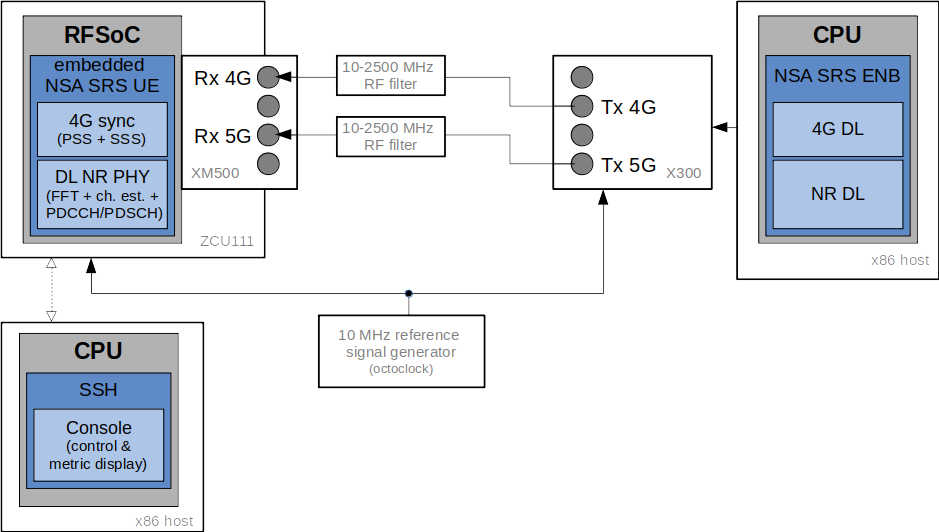
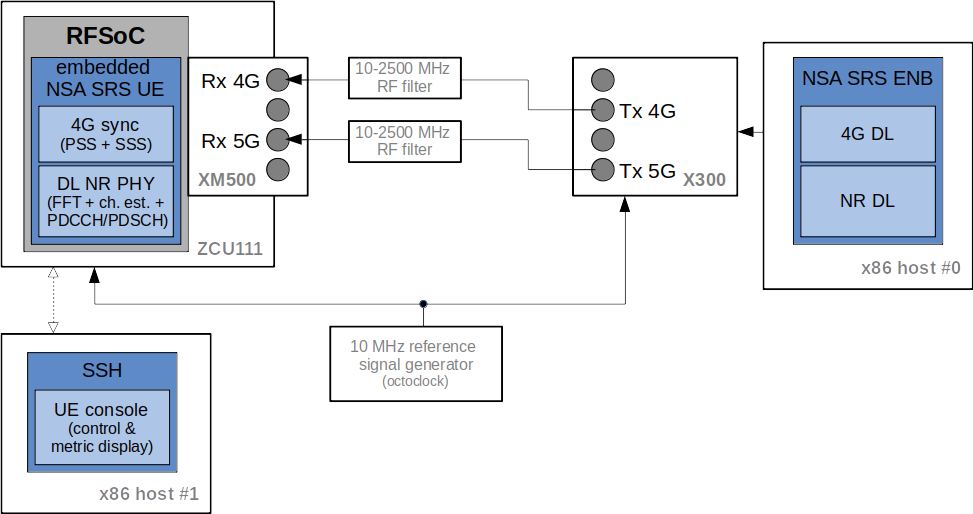
Introduces corrections taking into account Andre's comments.

diff --git a/srsran_user_manuals/source/app_notes/source/5g_nsa_emb_demo/source/index.rst b/srsran_user_manuals/source/app_notes/source/5g_nsa_emb_demo/source/index.rst
@@ -31,6 +31,7 @@ As shown in the figure above, the main components of the Embedded NSA DL demonst
   * **X300 USRP**: high-performance FPGA-based SDR front-end, including two complete RF chains and 10GE connectivity for high-speed I/Q sample exchange. It will constitute the NSA SRS eNB front-end.
   * **x86 host #0**: will host the NSA SRS eNB transmitter to provide both 4G and 5G DL signals.
   * **x86 host #1**: will provide SSH access to the ZCU111 board, in order to control the embedded NSA SRS UE. Will also display run-time DL metrics.
+  * **octoclock**: will provide a shared 10 MHz reference signal between the ZCU111 board and the x300 USRP device.
 
 Hardware Setup
 --------------
@@ -44,20 +45,27 @@ The connection between the different components comprising the demos system is a
 DL Demonstration Goals and Reach
 ********************************
 
+Features
+--------
+
 The demo aims at providing a proof-of-concept of the capacity of the RFSoC to host an SDR-based embedded
 NR UE implementation. With this purpose in mind, PHY-layer test NSA NR UE and eNB applications have been
-developed (i.e, they are not fully featured applications, as they are basically implementing the DL
-functionality). Nevertheless, its SDR implementation will enable the user to modify the specific configuration
-of the 4G and 5G DL signals (e.g., DL signal bandwidth, number of allocated PRBs, modulation and coding scheme)
-and observe the effect of these on the performance metrics provided by the embedded UE (i.e., console outputs).
-Moreover, the NR frame format has been fixed so that all slots are used for DL transmission.
+developed, enabling the user to modify the following DL signal parameters:
+
+  * Set the DL bandwidth to either 5 or 10 MHz.
+  * Modify the PRB allocation at run-time.
+  * Modify the modulation and coding scheme at run-time.
+
+Moreover, run-time metrics are provided through the console, enabling to observe the effects that the
+different DL signal configuration parameters have in the performance of the UE.
 
 Limitations
 -----------
 
 The most obvious limitation is that the UE and gNB applications, as well as the FPGA-accelerated PHY-layer
 implementation, are not fully-featured, as their scope is limited to the DL functionality (i.e., no UL
-processing will be implemented as part of the DL demonstration).
+processing will be implemented as part of the DL demonstration). Moreover, the NR frame format has been fixed
+so that all slots are used for DL transmission.
 
 The lack of a complete RF front-end also introduces the following limitations:
 
@@ -177,7 +185,7 @@ to a new SD card, simply run the following command ::
 In any case, the instructions to build an SD card from scratch are fully covered in the code repository
 (see	*lib/src/phy/ue/fpga_ue/srsRAN_RFSoC.md*).
 
-srsgNB (X300 & host #0 setup)
+srsENB (X300 & host #0 setup)
 -----------------------------
 
 *Shared reference signal with the ZCU111*
@@ -187,7 +195,7 @@ port. The use of the counterpart PPS input remains optional.
 
 *X300 port usage*
 
-As in the FPGA case, the utilization of the two RF ports in the X300 is predefined in the srsgNB
+As in the FPGA case, the utilization of the two RF ports in the X300 is predefined in the srsENB
 application, as indicated below:
 
 	* The 4G DL signal will be transmitted from RF channel A, TX/RX port.
@@ -239,7 +247,7 @@ automate the x300 initialization procedure::
 
 *eNB/gNB configuration file*
 
-To set-up the 5G NSA DL signal, the configuration file for both the srsgNB application must be
+To set-up the 5G NSA DL signal, the configuration file for both the srsENB application must be
 changed. In more detail, all NR parameters of interest to the demonstration system will be set
 through the configuration file.
 
